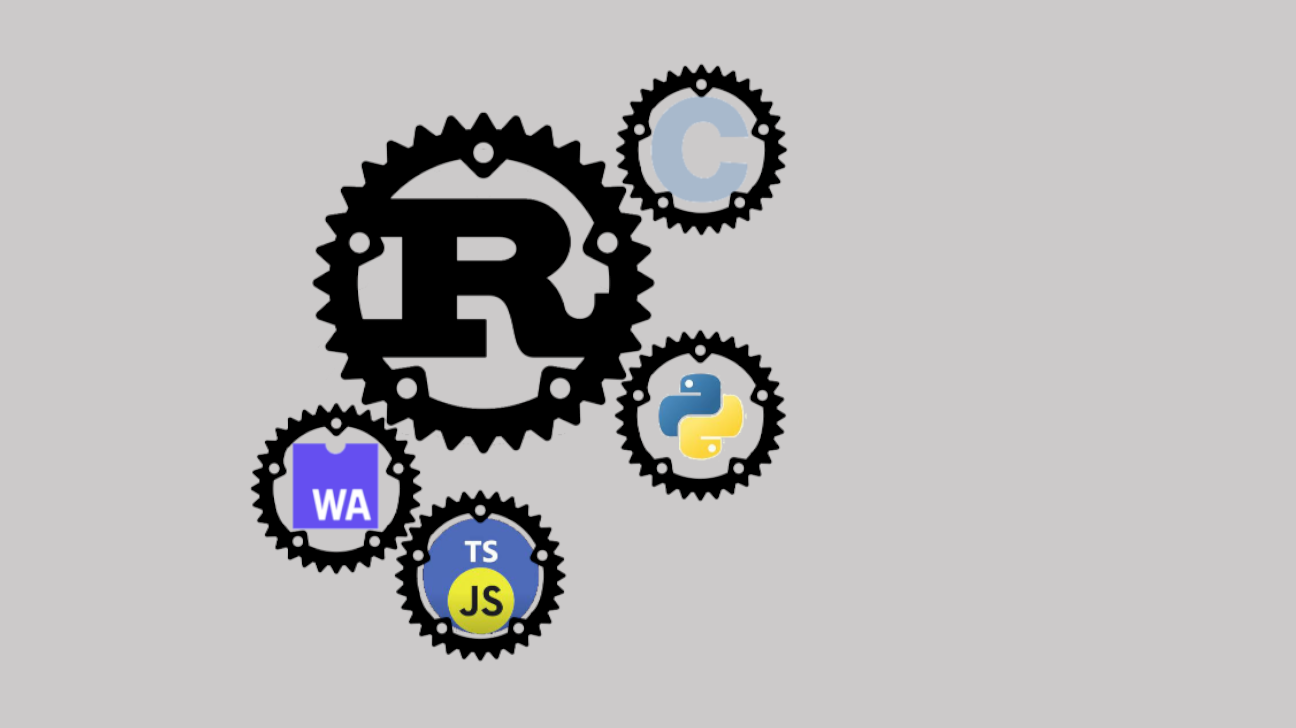
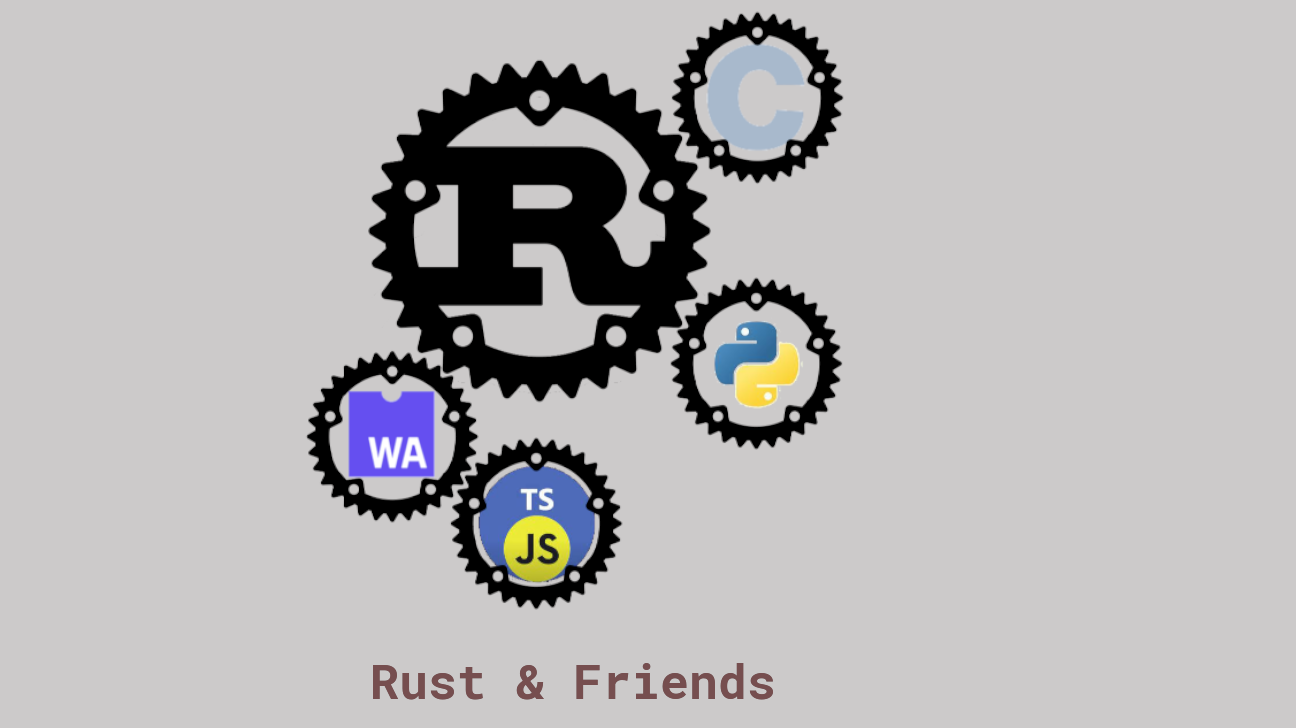
rust and friends

Changed region(s): [[0.1852, 0.0, 0.6481, 0.967], [0.4012, 0.9066, 0.6173, 0.967]]

diff --git a/index.html b/index.html
@@ -65,7 +65,7 @@ Sun Wukong: Listen to the mp3.
 <h2 id="featured-projects">Featured projects</h2>
 <style>
 #the_cure {background-image: url('img/20140711_BB.png'); background-size: cover;}
-#the_cure:hover {background-image: url('img/Rust_and_friends.png');color:rgba(183, 65, 14, 0.3);}
+#the_cure:hover {background-image: url('img/Rust_and_friends.png');color:rgba(183, 65, 14, 0.0);}
 </style>
 <div class="image-mosaic">
 <div class="card card-tall card-wide">
@@ -74,7 +74,7 @@ Sun Wukong: Listen to the mp3.
 A cure for insecure code
 </p>
 <div style="font-size: 1rem;">
-<p><a href="#">Services</a> <a href="#">Pricing</a> <a href="#">Contact</a></p>
+<p>Rust and friends<br/><a href="#">Services</a> <a href="#">Pricing</a> <a href="#">Contact</a></p>
 </div>
 </div>
 <!--^-- mosaic-hover-menu -->

diff --git a/index.md b/index.md
@@ -36,7 +36,7 @@
 ## Featured projects
 <style>
 #the_cure {background-image: url('img/20140711_BB.png'); background-size: cover;}
-#the_cure:hover {background-image: url('img/Rust_and_friends.png');color:rgba(183, 65, 14, 0.3);}
+#the_cure:hover {background-image: url('img/Rust_and_friends.png');color:rgba(183, 65, 14, 0.0);}
 </style>
 <div class="image-mosaic">
 <div class="card card-tall card-wide">
